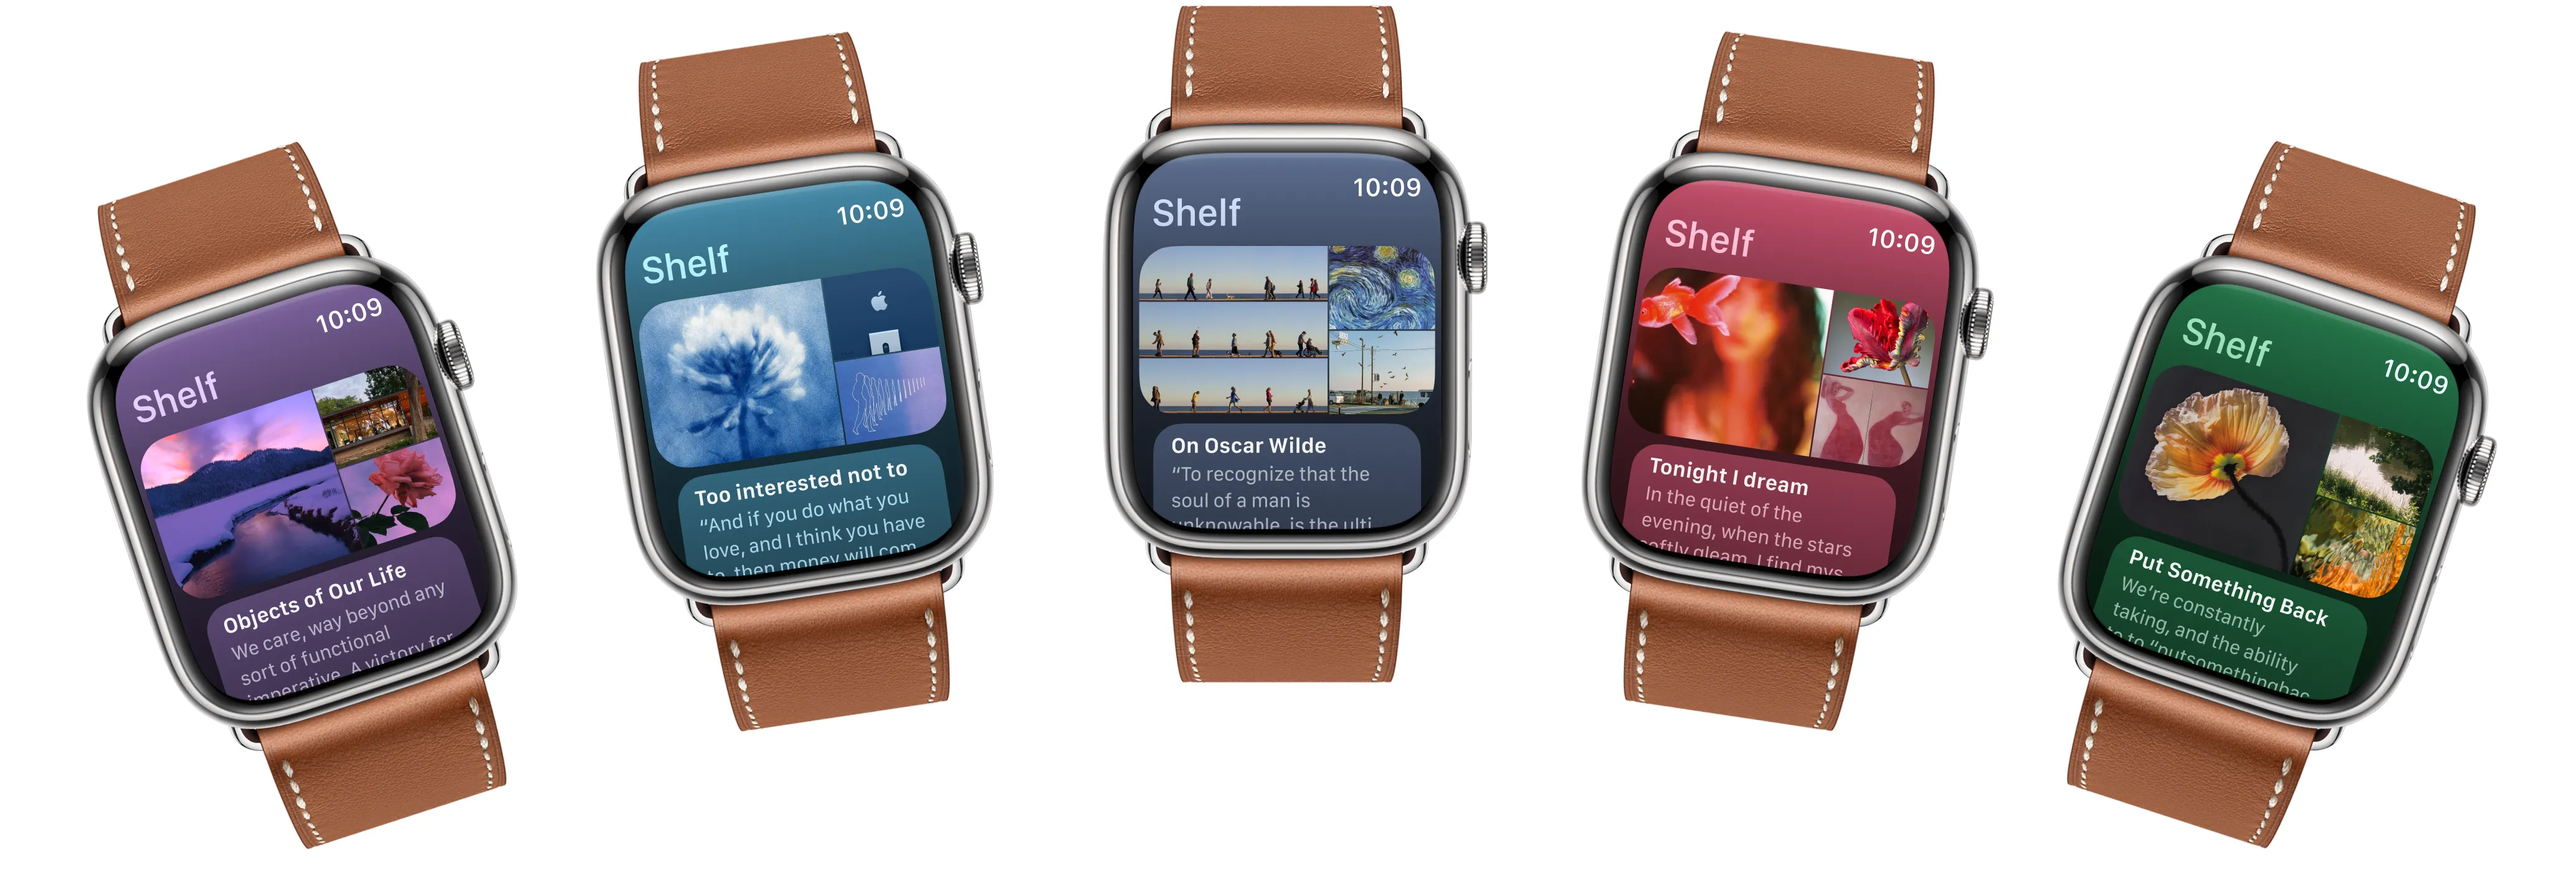
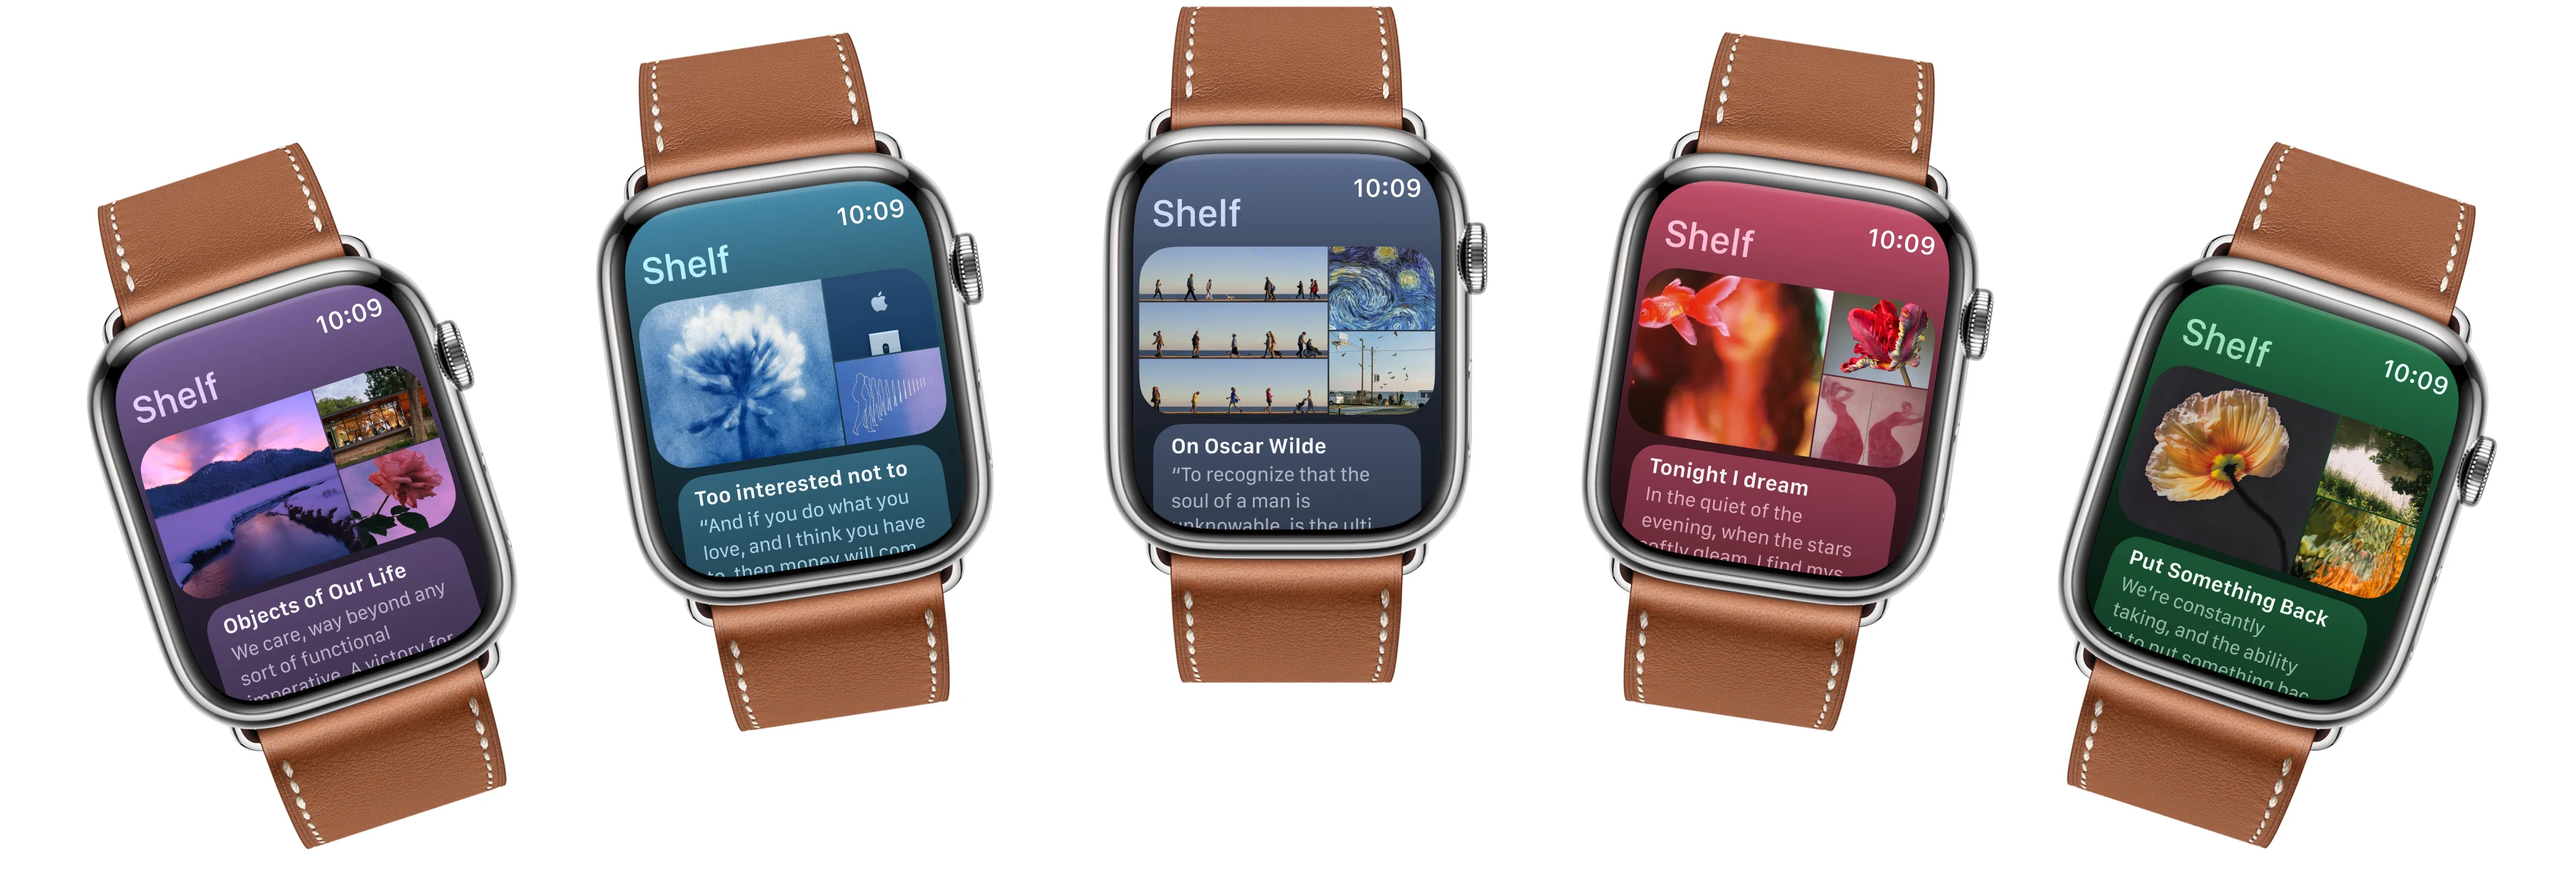
watch fix

diff --git a/case.css b/case.css
@@ -866,9 +866,11 @@ nav {
 .style {
     background: white;
 
-    img {
+    .style-watches {
+        aspect-ratio: 1648/570;
         width: clamp(1780px, 117vw, 2080px);
         margin-bottom: -90px;
+        background-image: url("Im/shelf/style-1.webp");
     }
 
     .eyebrow, .text {
@@ -881,7 +883,7 @@ nav {
     }
 
     @media (width <= 1035px) {
-        img {
+        .style-watches {
             width: 1180px;
             margin-bottom: -40px;
         }
@@ -892,9 +894,11 @@ nav {
     }
 
     @media (width <= 630px) {
-        img {
-            width: 910px;
-            margin-bottom: -30px;
+        .style-watches {
+            aspect-ratio: 562/1599;
+            width: clamp(360px, 91.6vw, 393px);
+            margin-bottom: 0;
+            background-image: url("Im/shelf/style-1-sm.webp");
         }
 
         h6 {

diff --git a/shelf.html b/shelf.html
@@ -416,7 +416,7 @@
 
         <section class="style">
             <div class="view">
-                <img src="Im/shelf/style-1.webp">
+                <div class="style-watches"></div>
                 <div class="text view">
                     <div class="eyebrow view">
                         <h6>Styles</h6>
